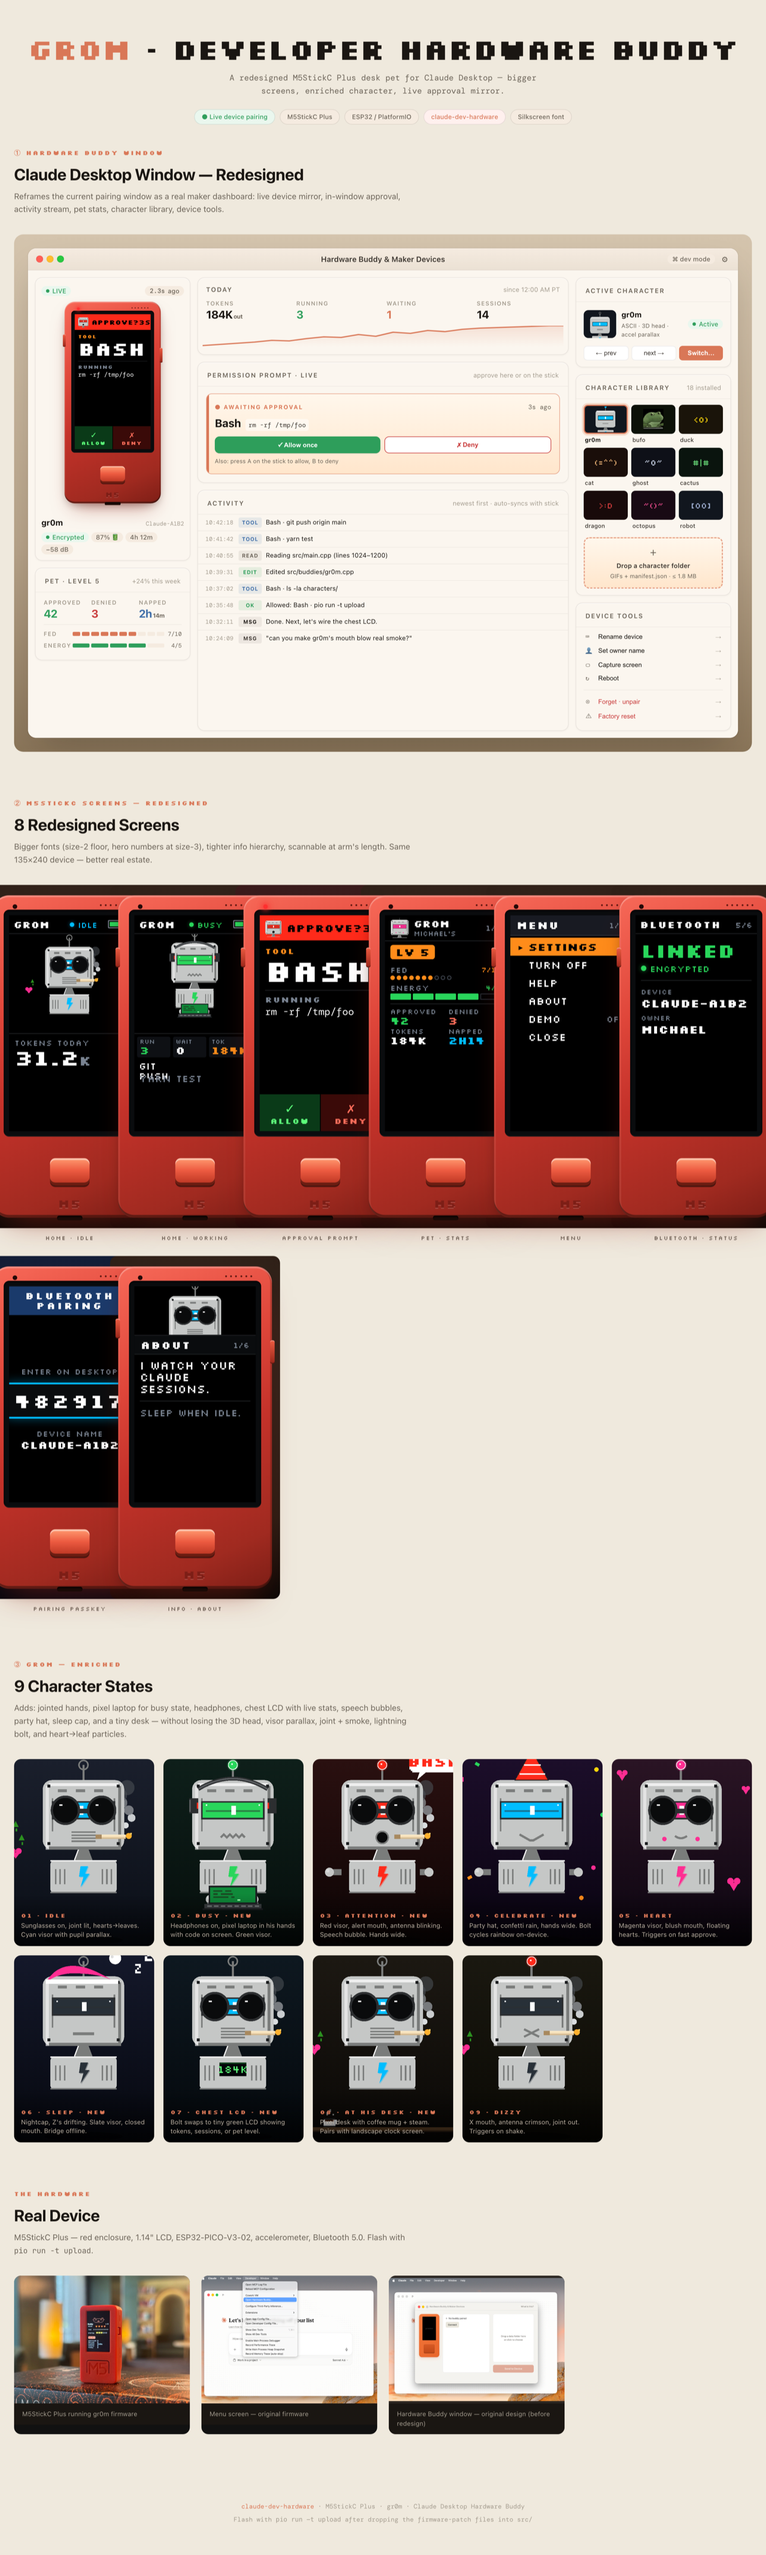
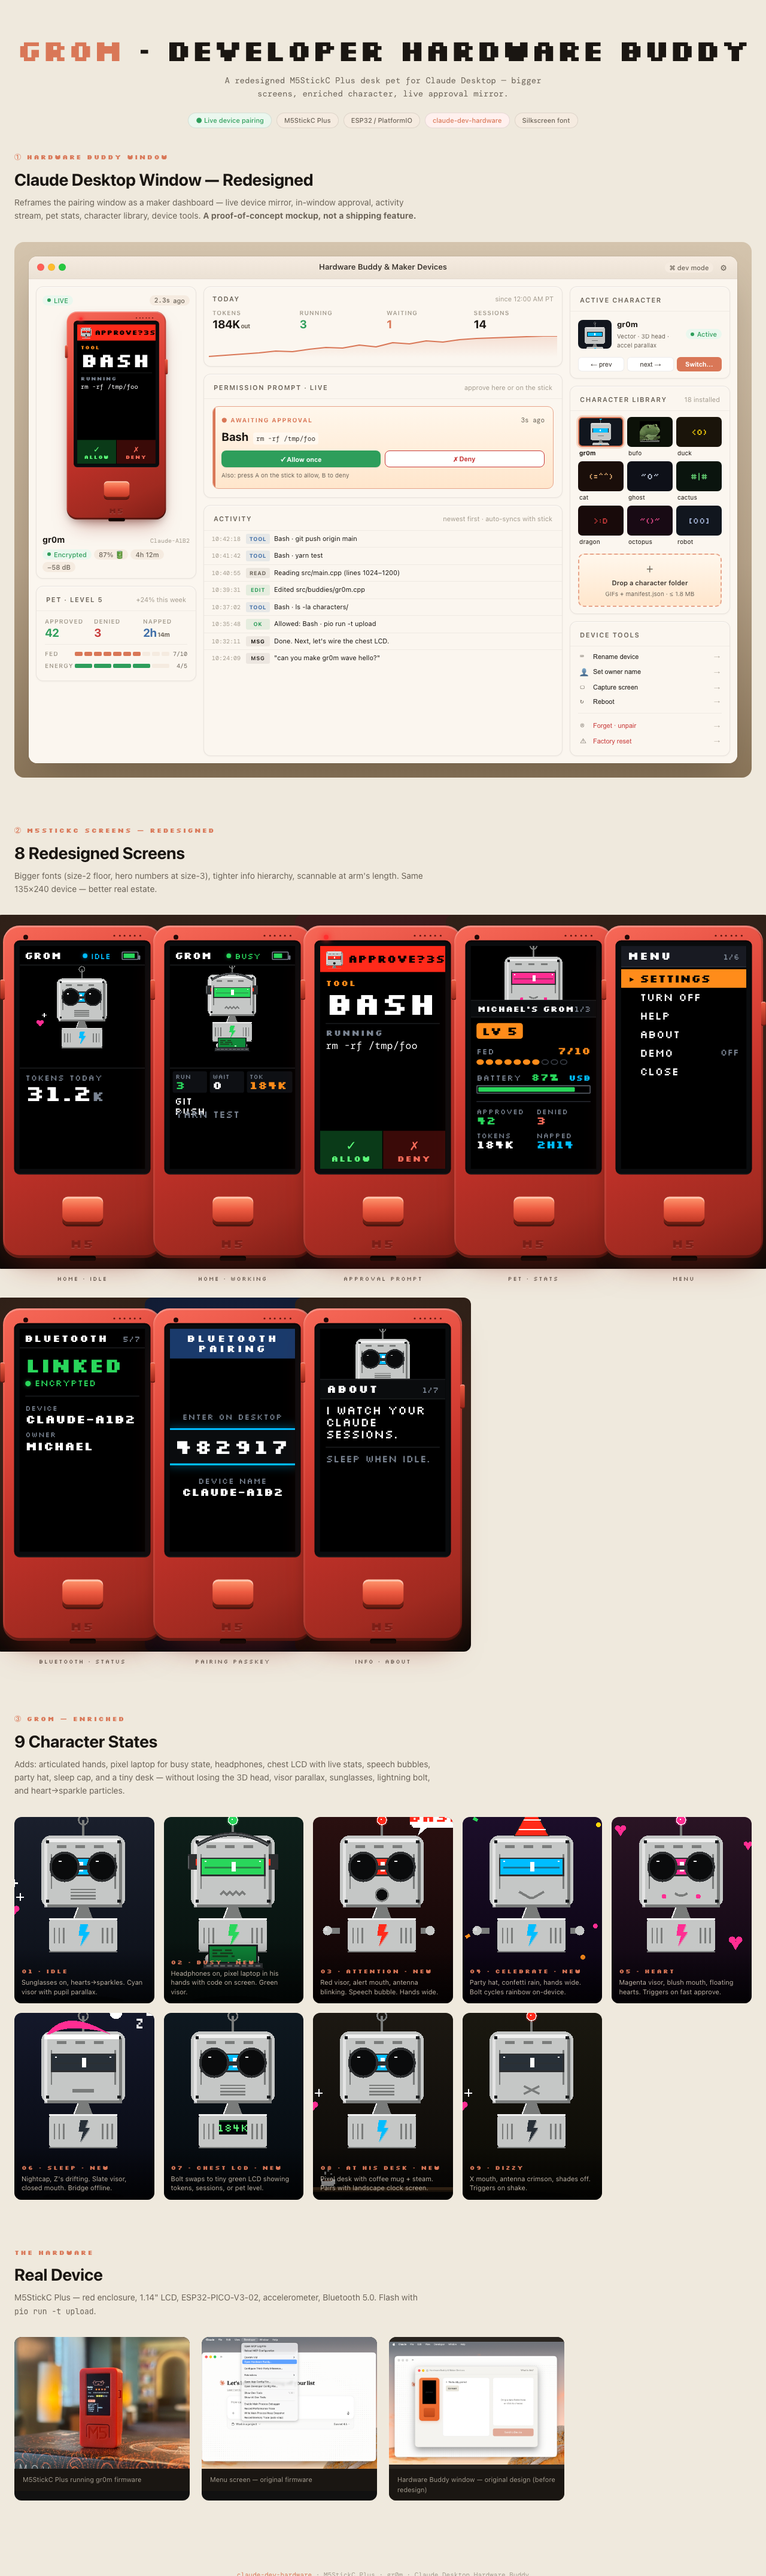
docs: refresh showcase to finalized screens
Pet screen mockup now mirrors the finalized firmware (character peek + dark
header strip with owner's-pet title + 1/3, LV pill, FED dots, real battery
bar, APPROVED/DENIED/TOKENS/NAPPED grid). Page counters corrected (Info 1/7,
Bluetooth 5/7), dashboard section labeled proof-of-concept, stale
'firmware-patch' footer replaced with fork + cc-bridge pointer. Re-rendered
docs/screens.png from the updated index.html.

diff --git a/index.html b/index.html
@@ -318,7 +318,7 @@ footer a:hover{text-decoration:underline}
 <section aria-labelledby="s1-title">
   <p class="section-label">① Hardware Buddy Window</p>
   <h2 class="section-title" id="s1-title">Claude Desktop Window — Redesigned</h2>
-  <p class="section-sub">Reframes the current pairing window as a real maker dashboard: live device mirror, in-window approval, activity stream, pet stats, character library, device tools.</p>
+  <p class="section-sub">Reframes the pairing window as a maker dashboard — live device mirror, in-window approval, activity stream, pet stats, character library, device tools. <strong>A proof-of-concept mockup, not a shipping feature.</strong></p>
 
   <div class="window-stage" role="region" aria-label="Hardware Buddy desktop window mockup">
     <div class="bw">
@@ -661,7 +661,7 @@ footer a:hover{text-decoration:underline}
 
 <footer>
   <p><a href="https://github.com/MichaelAdamGroberman/claude-dev-hardware" rel="noopener">claude-dev-hardware</a> · M5StickC Plus · gr0m · Claude Desktop Hardware Buddy</p>
-  <p style="margin-top:6px">Flash with <code>pio run -t upload</code> after dropping the firmware-patch files into src/</p>
+  <p style="margin-top:6px">Flash with <code>pio run -t upload</code> — see the README for the full fork + cc-bridge setup.</p>
 </footer>
 
 <!-- ════════════════════════════════════════════════════════════
@@ -1214,52 +1214,63 @@ function buildScreenApproval() {
   return root;
 }
 
-// Screen 4: PET
+// Screen 4: PET STATS — character peek up top, dark header strip ("owner's
+// pet" + page counter), then the redesigned stats card: LV pill, FED dots,
+// real battery bar (replaced the old "energy" tier), and a 2×2
+// APPROVED/DENIED/TOKENS/NAPPED grid. Mirrors the finalized firmware
+// drawPet/drawPetStats layout (header strip at y=70, content from y=88).
 function buildScreenPet() {
   const root=mkDiv('scr');
-  const hdr=mkDiv('scr-pet-hdr');
-  hdr.appendChild(gr0mPeekNode('heart',22));
-  const info=mkDiv(); info.style.flex='1';
-  const n=mkDiv(); n.style.cssText='font-size:11px;font-weight:700'; n.textContent='gr0m'; info.appendChild(n);
-  const s=mkDiv(); s.style.cssText='font-size:8px;color:#7a8492;margin-top:1px'; s.textContent="MICHAEL'S"; info.appendChild(s);
-  hdr.appendChild(info);
-  const pg=mkDiv(); pg.style.cssText='font-size:9px;color:#7a8492'; pg.textContent='1/2'; hdr.appendChild(pg);
-  root.appendChild(hdr);
 
-  const body=mkDiv('scr-pet-body');
+  // character peek — sits above the strip, like the Info screen
+  const pk=mkDiv('scr-info-pk'); pk.style.height='58px';
+  pk.appendChild(makeGr0m({mood:'heart',w:135,h:58,vb:'30 22 74 50',shadow:false,sj:false,sg:false}));
+  root.appendChild(pk);
+
+  // dark header strip — "owner's pet" + page counter
+  const bar=mkDiv('scr-info-b');
+  // Long "owner's pet" titles step down to the caption size on one line, the
+  // same rule the firmware drawPetHeader uses (>10 chars → FS_SUB) so the title
+  // never wraps out of the strip.
+  const bt=mkDiv(); bt.style.cssText='font-size:9px;font-weight:700;letter-spacing:.3px;color:#fff;white-space:nowrap'; bt.textContent="Michael's gr0m"; bar.appendChild(bt);
+  const bp=mkDiv(); bp.style.cssText='font-size:9px;color:#7a8492'; bp.textContent='1/3'; bar.appendChild(bp);
+  root.appendChild(bar);
+
+  const body=mkDiv('scr-pet-body'); body.style.paddingTop='6px';
+
+  // LV pill — DS orange with black text
   const lv=mkDiv('lv-chip');
-  const lvl=document.createElement('span'); lvl.className='lv-label'; lvl.textContent='LV ';
-  const lvn=document.createElement('span'); lvn.className='lv-num'; lvn.textContent='5';
-  lv.appendChild(lvl); lv.appendChild(lvn); body.appendChild(lv);
+  const lvl=mkSpan(); lvl.textContent='LV '; lv.appendChild(lvl);
+  const lvn=mkSpan(); lvn.style.fontSize='13px'; lvn.textContent='5'; lv.appendChild(lvn);
+  body.appendChild(lv);
 
-  function meterRow(label, val, max, color, isBar) {
-    const row=mkDiv(); row.style.cssText='margin-top:4px';
-    const top=mkDiv(); top.style.cssText='display:flex;justify-content:space-between;align-items:center;margin-bottom:2px';
-    const tl=document.createElement('span'); tl.style.cssText='font-size:9px;color:#7a8492;letter-spacing:.5px'; tl.textContent=label;
-    const tv=document.createElement('span'); tv.style.cssText=`font-size:8px;color:${color}`; tv.textContent=`${val}/${max}`;
-    top.appendChild(tl); top.appendChild(tv); row.appendChild(top);
-    const track=mkDiv(); track.style.cssText='display:flex;gap:2px';
-    for(let i=0;i<max;i++){
-      const seg=document.createElement('span');
-      if (isBar) {
-        seg.className='mini-bar';
-        Object.assign(seg.style,{width:`${Math.floor(115/max)}px`,height:'7px',background:i<val?color:'transparent',border:i<val?'none':'1px solid #262a32'});
-      } else {
-        seg.className='mini-dot';
-        Object.assign(seg.style,{width:'5px',height:'5px',background:i<val?color:'transparent',border:i<val?'none':'1px solid #3a3f48'});
-      }
-      track.appendChild(seg);
-    }
-    row.appendChild(track);
-    return row;
-  }
-  body.appendChild(meterRow('FED',7,10,'#ff8c1a',false));
-  body.appendChild(meterRow('ENERGY',4,5,'#29d65b',true));
+  // FED meter — 10 dots
+  const fed=mkDiv(); fed.style.marginTop='5px';
+  const ft=mkDiv(); ft.style.cssText='display:flex;justify-content:space-between;align-items:baseline';
+  const fl=mkSpan(); fl.style.cssText='font-size:9px;color:#7a8492;letter-spacing:.5px'; fl.textContent='FED'; ft.appendChild(fl);
+  const fv=mkSpan(); fv.style.cssText='font-size:11px;font-weight:700;color:#ff8c1a'; fv.textContent='7/10'; ft.appendChild(fv);
+  fed.appendChild(ft);
+  const ftrack=mkDiv(); ftrack.style.cssText='display:flex;gap:2px;margin-top:3px';
+  for(let i=0;i<10;i++){ const d=mkDiv(); Object.assign(d.style,{flex:'1',maxWidth:'8px',height:'6px',borderRadius:'50%',background:i<7?'#ff8c1a':'transparent',border:i<7?'none':'1px solid #3a3f48'}); ftrack.appendChild(d); }
+  fed.appendChild(ftrack); body.appendChild(fed);
 
-  const divr=mkDiv(); divr.style.cssText='height:1px;background:#1a1c1e;margin:4px 0'; body.appendChild(divr);
-  const grid=mkDiv('s2x2');
+  // BATTERY — real battery bar (replaces the old "energy" tier)
+  const bat=mkDiv(); bat.style.marginTop='8px';
+  const btr=mkDiv(); btr.style.cssText='display:flex;justify-content:space-between;align-items:baseline';
+  const bl=mkSpan(); bl.style.cssText='font-size:9px;color:#7a8492;letter-spacing:.5px'; bl.textContent='BATTERY'; btr.appendChild(bl);
+  const bv=mkSpan(); bv.style.cssText='font-size:11px;font-weight:700;color:#29d65b'; bv.textContent='87%'; btr.appendChild(bv);
+  const bbg=mkSpan(); bbg.style.cssText='font-size:9px;font-weight:700;color:#00bdff'; bbg.textContent='USB'; btr.appendChild(bbg);
+  bat.appendChild(btr);
+  const bshell=mkDiv(); bshell.style.cssText='margin-top:3px;height:9px;border:1px solid #5a626c;border-radius:1px;padding:1px';
+  const bfill=mkDiv(); bfill.style.cssText='height:100%;width:87%;background:#29d65b;border-radius:1px'; bshell.appendChild(bfill);
+  bat.appendChild(bshell); body.appendChild(bat);
+
+  const divr=mkDiv(); divr.style.cssText='height:1px;background:#262a32;margin:8px 0 0'; body.appendChild(divr);
+
+  // 2×2 grid — APPROVED / DENIED / TOKENS / NAPPED
+  const grid=mkDiv('s2x2'); grid.style.marginTop='6px';
   [['APPROVED','42','#29d65b'],['DENIED','3','#ff6e5b'],['TOKENS','184K','#fff'],['NAPPED','2h14','#00bdff']].forEach(([l,v,c])=>{
-    const cell=mkDiv();
+    const cell=mkDiv(); cell.style.marginBottom='4px';
     const cl=mkDiv('s2x2-l'); cl.textContent=l; cell.appendChild(cl);
     const cv=mkDiv('s2x2-v'); cv.textContent=v; cv.style.color=c; cell.appendChild(cv);
     grid.appendChild(cell);
@@ -1296,7 +1307,7 @@ function buildScreenBluetooth() {
   const root=mkDiv('scr');
   const hdr=mkDiv('scr-hdr');
   const nm=mkDiv('scr-name'); nm.style.letterSpacing='1px'; nm.textContent='BLUETOOTH'; hdr.appendChild(nm);
-  const p=mkDiv(); p.style.cssText='font-size:9px;color:#7a8492'; p.textContent='5/6'; hdr.appendChild(p);
+  const p=mkDiv(); p.style.cssText='font-size:9px;color:#7a8492'; p.textContent='5/7'; hdr.appendChild(p);
   root.appendChild(hdr);
   const body=mkDiv('scr-bt-body');
   const linked=mkDiv(); linked.style.cssText='font-size:22px;font-weight:700;color:#29d65b'; linked.textContent='LINKED'; body.appendChild(linked);
@@ -1334,7 +1345,7 @@ function buildScreenInfo() {
   root.appendChild(pk);
   const bar=mkDiv('scr-info-b');
   const bt=mkDiv(); bt.style.cssText='font-size:12px;font-weight:700;letter-spacing:1px'; bt.textContent='ABOUT'; bar.appendChild(bt);
-  const bp=mkDiv(); bp.style.cssText='font-size:9px;color:#7a8492'; bp.textContent='1/6'; bar.appendChild(bp);
+  const bp=mkDiv(); bp.style.cssText='font-size:9px;color:#7a8492'; bp.textContent='1/7'; bar.appendChild(bp);
   root.appendChild(bar);
   const body=mkDiv('scr-body');
   const t1=mkDiv(); t1.style.cssText='font-size:13px;color:#fff;line-height:1.15'; t1.textContent='I watch your Claude sessions.'; body.appendChild(t1);
